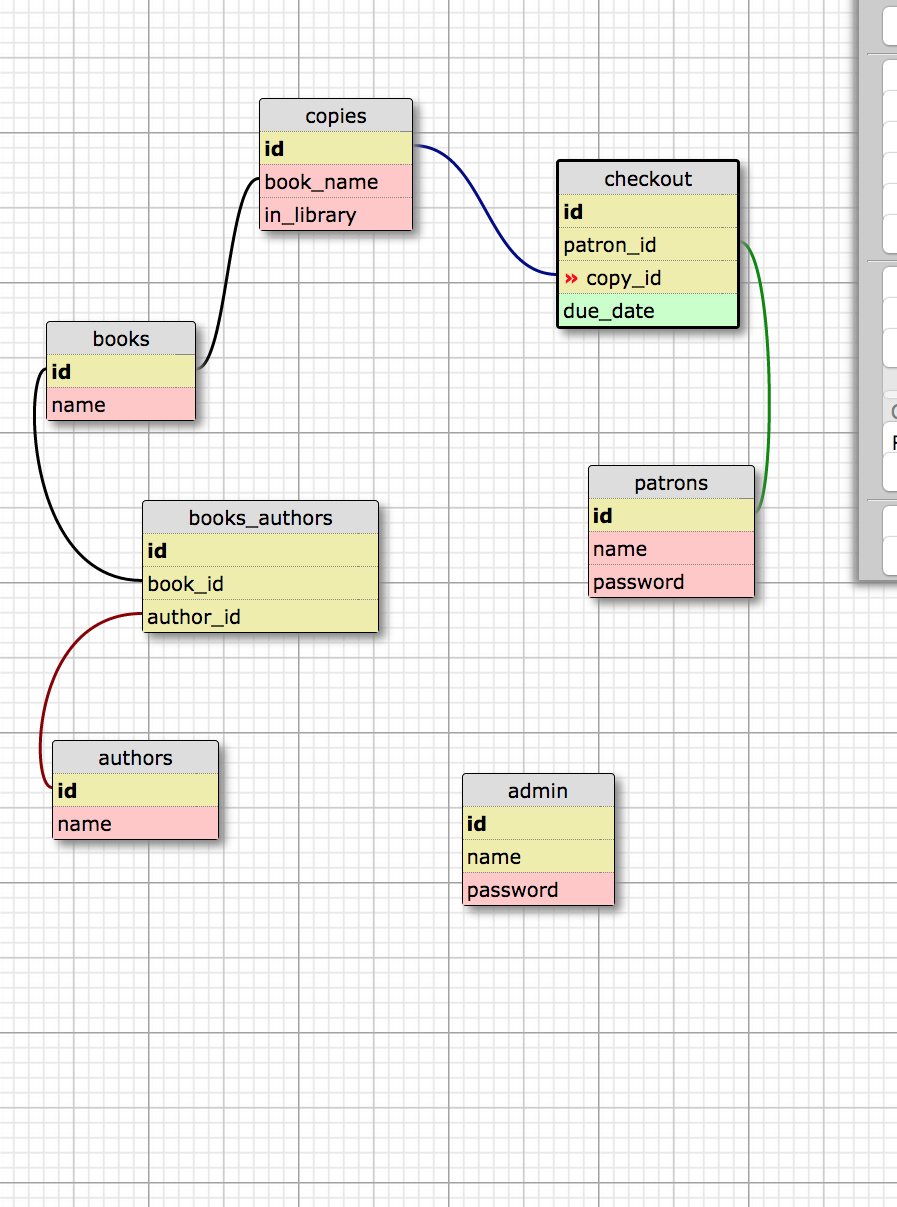
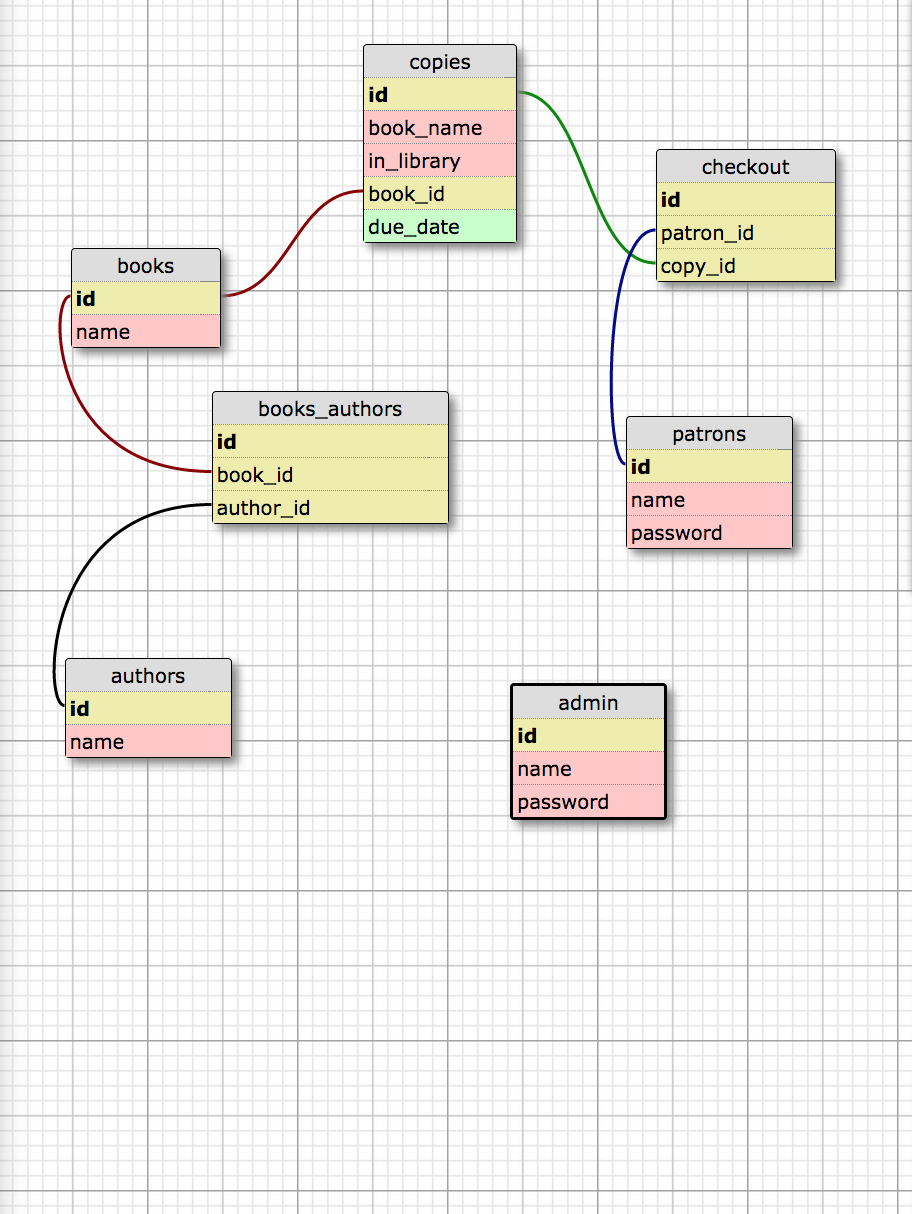
Create methods and passing tests to get Due date for checked out book.

diff --git a/src/Patron.php b/src/Patron.php
@@ -129,7 +129,7 @@
 
             $GLOBALS['DB']->exec("INSERT INTO checkout (patron_id, copy_id) VALUES ({$this->getId()}, {$copy->getId()});");
             $GLOBALS['DB']->exec("UPDATE copies SET in_library = false WHERE id = {$copy->getId()};");
-            $GLOBALS['DB']->exec("UPDATE copies SET due_date = {$due_date} WHERE id = {$copy->getId()};");
+            $GLOBALS['DB']->exec("UPDATE copies SET due_date = '{$due_date}' WHERE id = {$copy->getId()};");
 
 
         }
@@ -138,26 +138,64 @@
 // Get all copies with the same name and a false attribute in the in_libraries column.
 // Get the id of the first copy that matches
 // Update copy in copies table so in_library = true where the copies id is the one found above.
-        function returnCopy($name)
+
+// get all the copy ids for matching book_names to name
+// for the copy id that exists in checkout, return the date for that copy id.
+//
+        function returnCopy($book_id)
         {
             $copies = Copy::getAll();
-            // var_dump($copies);
             $copy_to_return = null;
             foreach($copies as $book){
-                if($book->getBookName() == $name && $book->getIn_library() == false){
+                if($book->getBook_id() == $book_id && $book->getIn_library() == false){
+                    $book_id = $book->getId();
+
                     $copy_to_return = $book;
                 }
             }
-            // var_dump($copy_to_return);
             $GLOBALS['DB']->exec("UPDATE copies SET in_library = true WHERE id = {$copy_to_return->getId()};");
+            $GLOBALS['DB']->exec("UPDATE copies SET due_date = null WHERE id = {$copy_to_return->getId()};");
+
 
         }
 
-        function getCopyDueDate($name)
+        function getDueDate($search_id)
         {
-            $copies
+            $query = $GLOBALS['DB']->query("SELECT copies.* FROM
+                patrons JOIN checkout ON (patrons.id = checkout.patron_id)
+                JOIN copies ON (checkout.copy_id = copies.id)
+                WHERE patrons.id={$this->getId()};");
 
+            $result = $query->fetchAll(PDO::FETCH_ASSOC);
+        //    echo($search_id);
+            $due_date = null;
+            foreach($result as $book) {
+                // echo('Books');
+                // var_dump($book);
+                if($book['book_id'] == $search_id){
+                    $due_date = $book['due_date'];
+                }
+            }
+            return $due_date;
         }
+
+        // function get
+        // {
+        //     $statement = $GLOBALS['DB']->query("SELECT * FROM copies ORDER BY date DESC;");
+        //     $all_copies = array();
+        //     foreach($statement as $book){
+        //         $name = $book['book_name'];
+        //         $id = $book['id'];
+        //         $in = $book['in_library'];
+        //         $book_id = $book['book_id'];
+        //         $due_date = $book['due_date'];
+        //         $new_book = new Copy($name, $id, $in, $book_id, $due_date);
+        //         array_push($all_copies, $new_book);
+        //     }
+        //     return $all_copies;
+        // }
+
+
 
     }
 

diff --git a/tests/PatronTest.php b/tests/PatronTest.php
@@ -270,8 +270,8 @@
            $test_book->save();
 
            $name2 = "no_book";
-           $test_book = new Book($name2);
-           $test_book->save();
+           $test_book2 = new Book($name2);
+           $test_book2->save();
 
            $patron_name = "Tb";
            $test_patron = new Patron($patron_name);
@@ -279,7 +279,7 @@
 
            //Action
            $test_patron->checkoutCopy($name2);
-           $test_patron->returnCopy($name2);
+           $test_patron->returnCopy($test_book2->getId());
            $copies = Copy::getAll();
 
 
@@ -290,10 +290,25 @@
 //Create Book & Patron
 //Checkout Book
 
-        // function testDue_Date
-        // {
-        //
-        // }
+        function testDue_Date()
+        {
+            //Arrange
+            $name = "book_air";
+            $test_book = new Book($name);
+            $test_book->save();
+
+            $patron_name = "Tb";
+            $test_patron = new Patron($patron_name);
+            $test_patron->save();
+
+            //Action
+            $test_patron->checkoutCopy($name);
+            $result = $test_patron->getDueDate($test_book->getId());
+
+
+            //Assert
+            $this->assertEquals( true ,is_string($result));
+        }
 
     }
 
